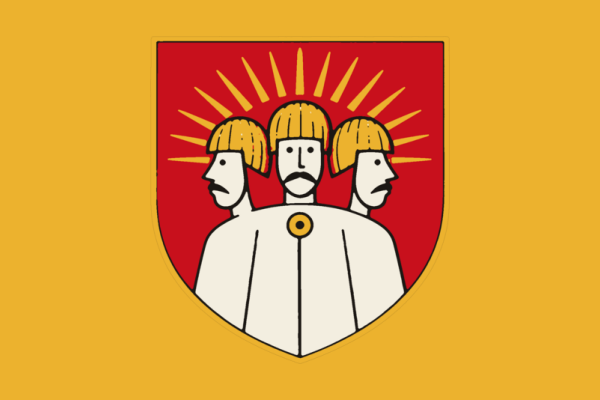
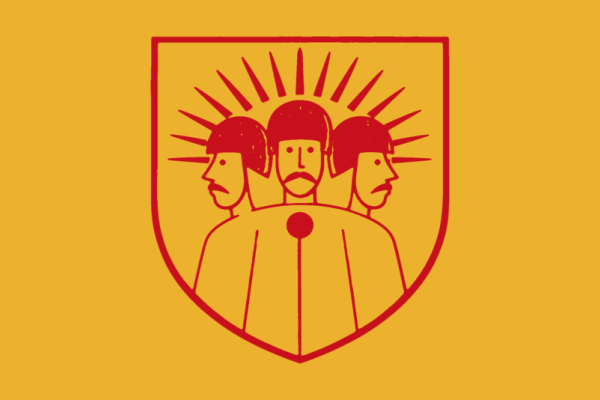
Stodorania kapłani: herb monochromatyczny w czerwieni
Claude-Session: https://claude.ai/code/session_01PNyJEgjZDVeUSFrp2WbnmN

diff --git a/gfx_koncepty/flagi_polabie/generuj_flagi.py b/gfx_koncepty/flagi_polabie/generuj_flagi.py
@@ -5,6 +5,7 @@ HERE=os.path.dirname(os.path.abspath(__file__))
 EMB=os.path.join(HERE,'..','emblematy')
 def b64(n): return base64.b64encode(open(os.path.join(EMB,n),'rb').read()).decode()
 TRY=b64('tryglaw_herb_s.png'); TW,TH=400,438
+TRYR=b64('tryglaw_czerwony_s.png')
 TG='#ecb22e'; TR='#c8101c'  # złoto i czerwień z herbu Trygława
 KOL=b64('kolowrot_maska_s.png')
 GO=b64('gryf_obodrzycki.png'); GOW,GOH=332,410
@@ -42,7 +43,7 @@ F={
  # Stodorania, republika: czerwień ze złotym pasem przez środek, bez godła
  'stodorania_2_republika': svg(f'<rect width="300" height="200" fill="{TR}"/><rect y="80" width="300" height="40" fill="{TG}"/>'),
  # Stodorania, rządy kapłanów Trygława: złote pole, herb na środku
- 'stodorania_3_kaplani': svg(f'<rect width="300" height="200" fill="{TG}"/>'+img(TRY,TW,TH,150,100,164)),
+ 'stodorania_3_kaplani': svg(f'<rect width="300" height="200" fill="{TG}"/>'+img(TRYR,TW,TH,150,100,164)),
  # Stodorania rewolucyjna: czerwień, trzy złote gwiazdy w rzędzie (trzy głowy Trygława bez bóstwa)
  'stodorania_4_rewolucja': svg(f'<rect width="300" height="200" fill="{TR}"/>'+star(92,100,24,TG)+star(150,100,24,TG)+star(208,100,24,TG)),
 }

diff --git a/gfx_koncepty/flagi_polabie/README.md b/gfx_koncepty/flagi_polabie/README.md
@@ -12,7 +12,7 @@ Flagi generuje `generuj_flagi.py`, a podgląd jest w [stodorania_arkusz.png](sto
 |---|---|
 | stodorania_1_ksiestwo | Księstwo (start, Brenna): czerwień ze złotymi pasami, mały herb z Trygławem na środku (proporcje jak słońce na fladze Argentyny) |
 | stodorania_2_republika | Republika: czerwień ze złotym pasem przez środek, bez godła |
-| stodorania_3_kaplani | Rządy kapłanów Trygława: złote pole, herb na środku |
+| stodorania_3_kaplani | Rządy kapłanów Trygława: złote pole, herb monochromatyczny w czerwieni ([../emblematy/tryglaw_czerwony.png](../emblematy/tryglaw_czerwony.png)) |
 | stodorania_4_rewolucja | Rewolucja: czerwień, trzy złote gwiazdy w rzędzie, czyli trzy głowy Trygława bez bóstwa |
 
 ## Obodryci (Meklemburgia, Niklotowice, Liubice)
